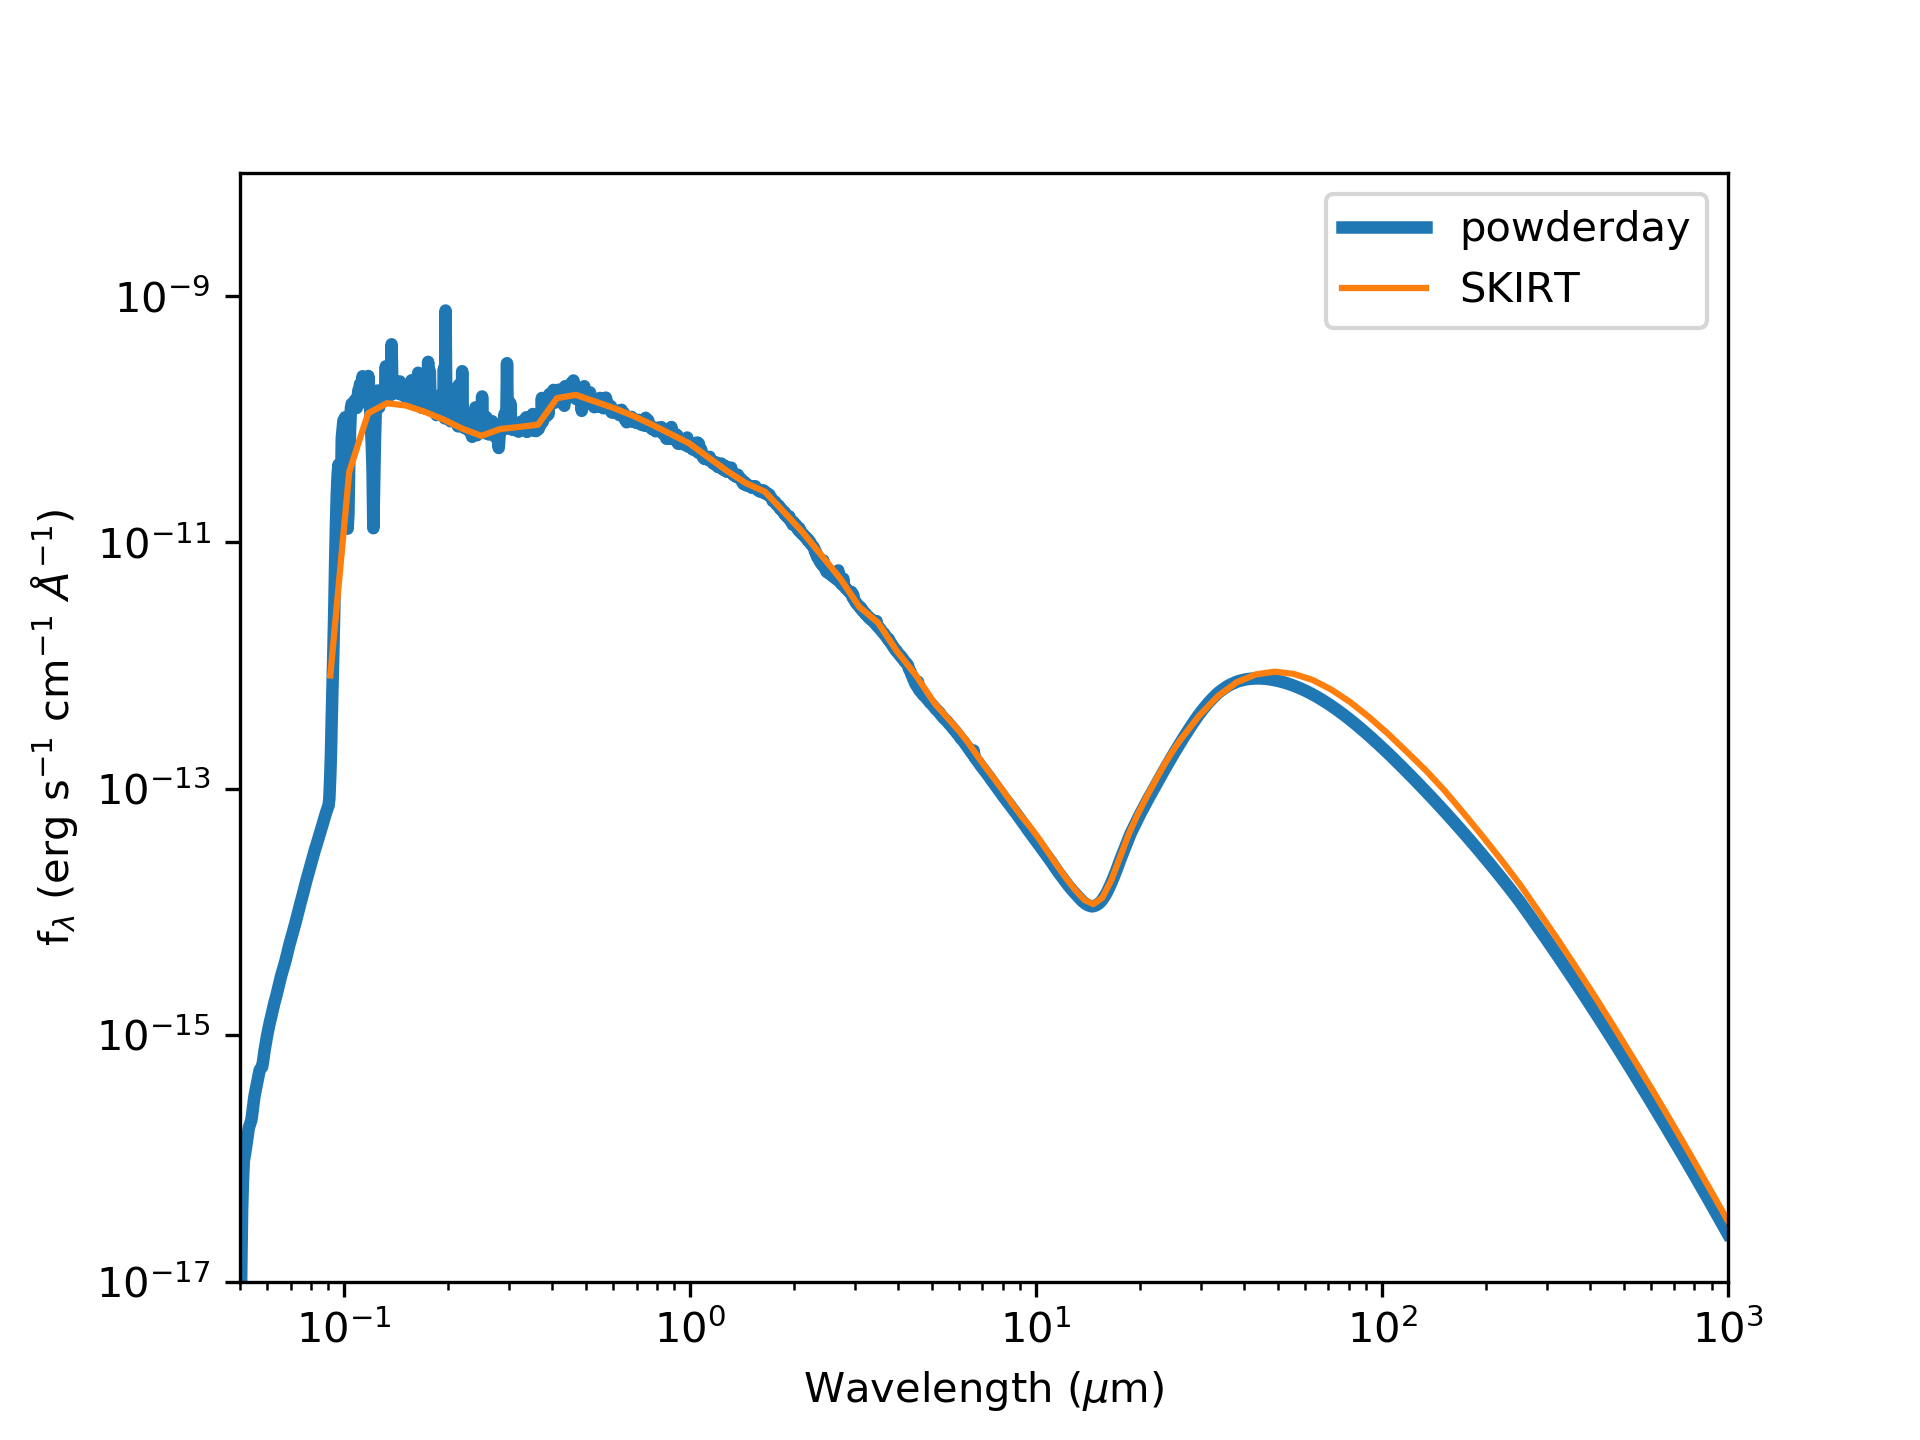
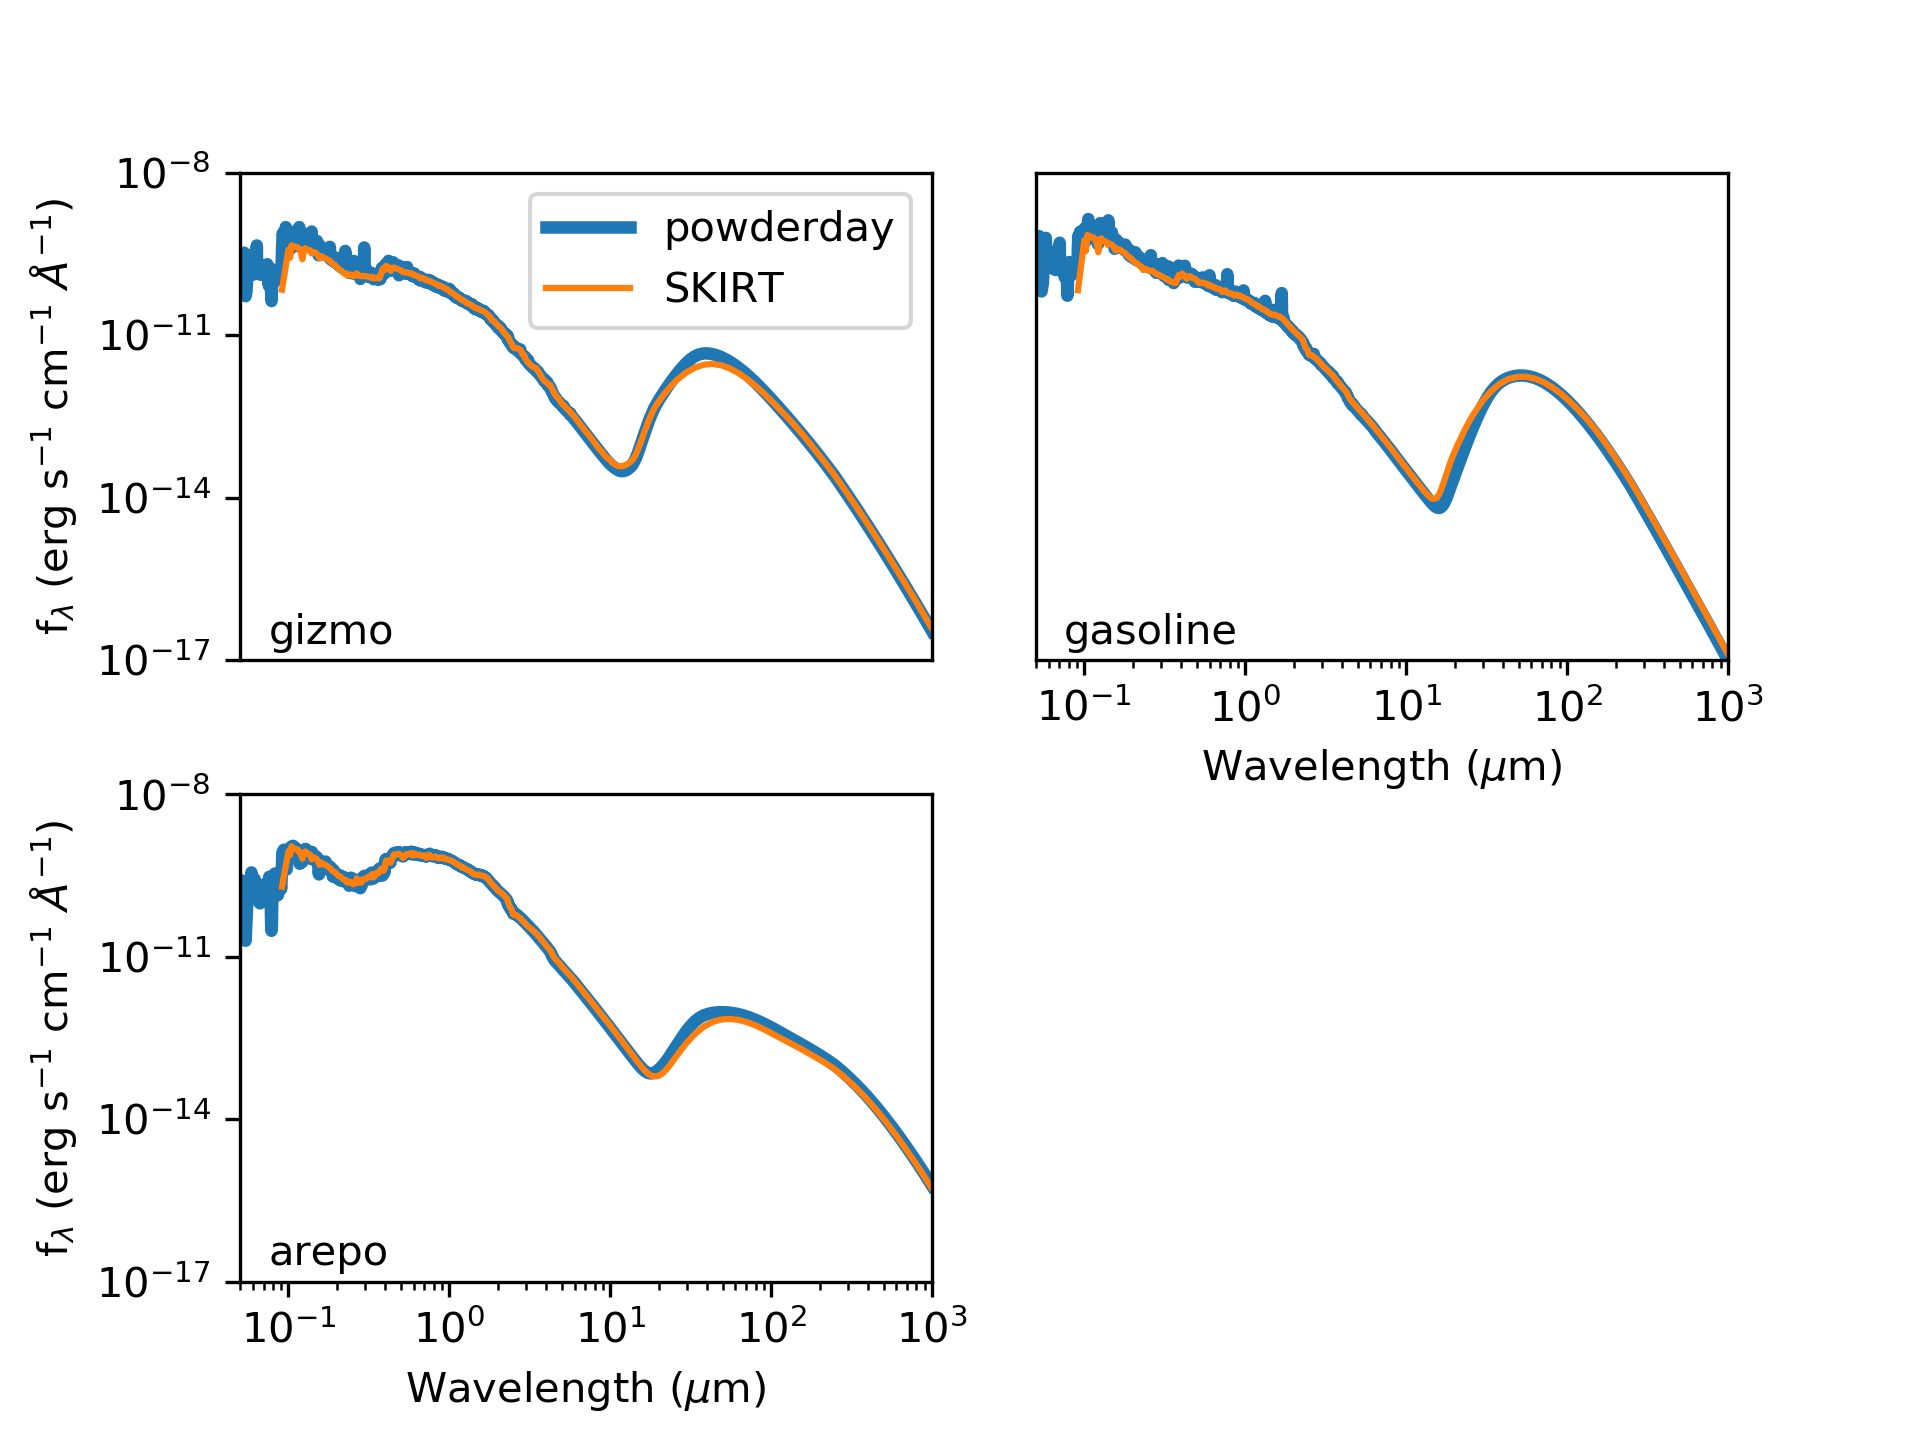
updating pd-skirt comparison docs to include tipsy and arepo

diff --git a/docs/tests.rst b/docs/tests.rst
@@ -108,12 +108,15 @@ arbitrarily chosen).  Then you can run::
   cd <path_to_powderday>
   python tests/SKIRT/skirt_sed_plot.py
 
-and it should produce an image like
+and it should produce an image like the top left one in:
 
 .. image :: images/powderday_skirt_comparison.png 
     :align: center
 
-
+Note, there are analagous tests for the arepo and gasoline/changa
+front ends that ship with `powderday
+<https://github.com/dnarayanan/powderday.git>`_ as well that will produce the other panels in the aforementioned code comparison figure.
+	  
 Persistent Differences in the Models
 --------------
 
